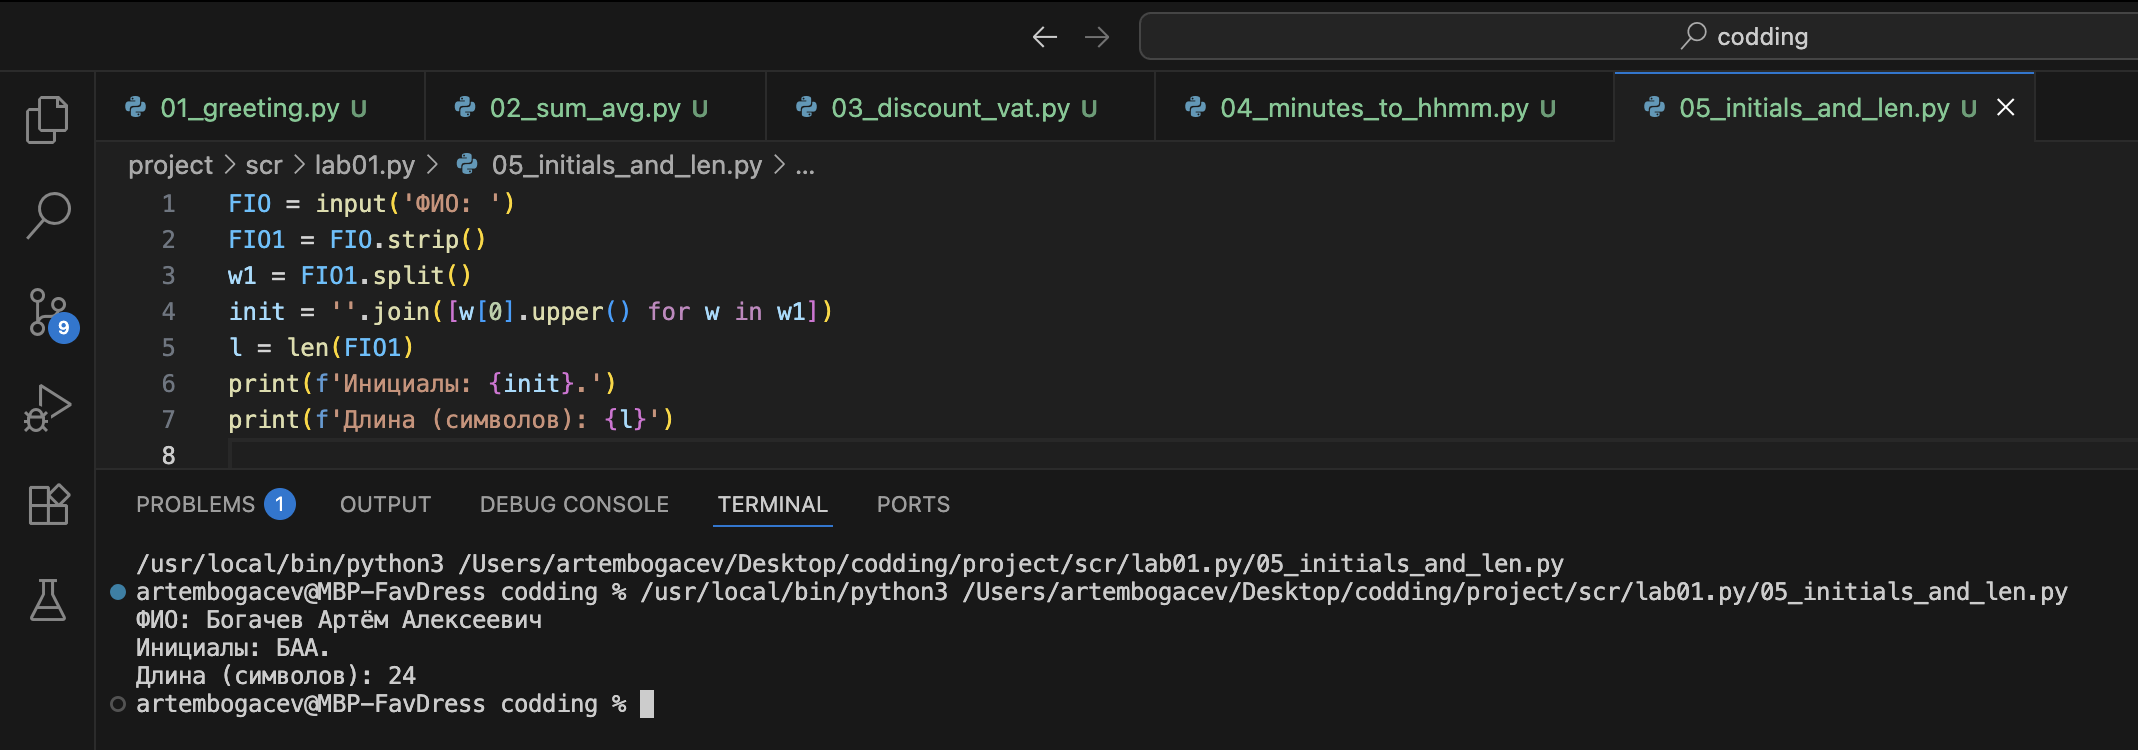
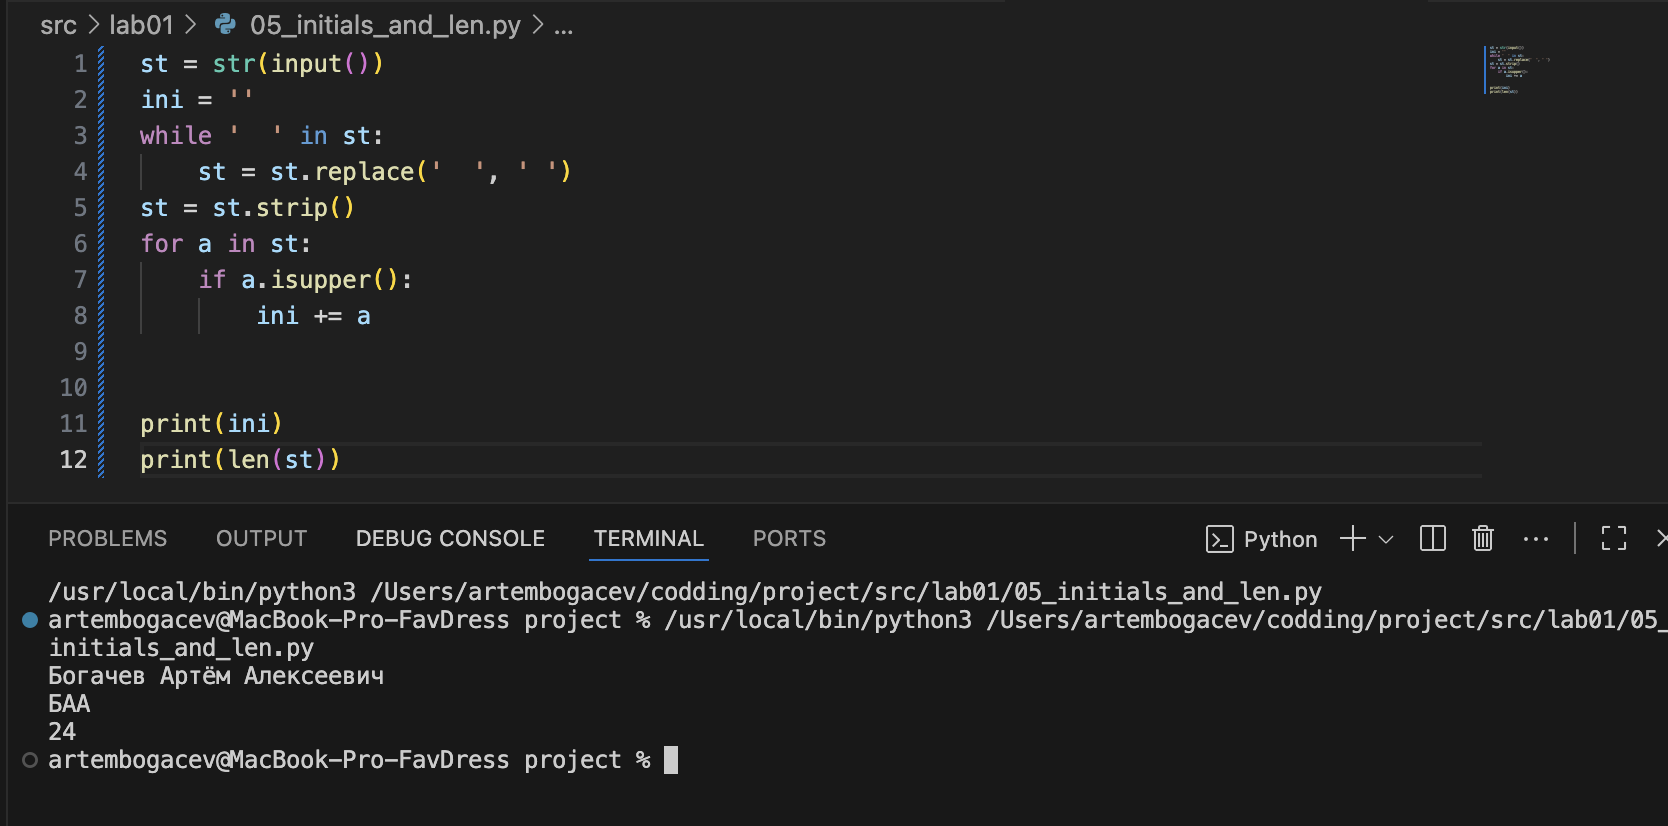
README.md

diff --git a/src/lab01/05_initials_and_len.py b/src/lab01/05_initials_and_len.py
@@ -1,7 +1,12 @@
-FIO = input('ФИО: ')
-FIO1 = FIO.strip()
-w1 = FIO1.split()
-init = ''.join([w[0].upper() for w in w1])
-l = len(FIO1)
-print(f'Инициалы: {init}.')
-print(f'Длина (символов): {l}')
+st = str(input()) 
+ini = '' 
+while '  ' in st: 
+    st = st.replace('  ', ' ') 
+st = st.strip() 
+for a in st: 
+    if a.isupper(): 
+        ini += a 
+ 
+ 
+print(ini) 
+print(len(st))
